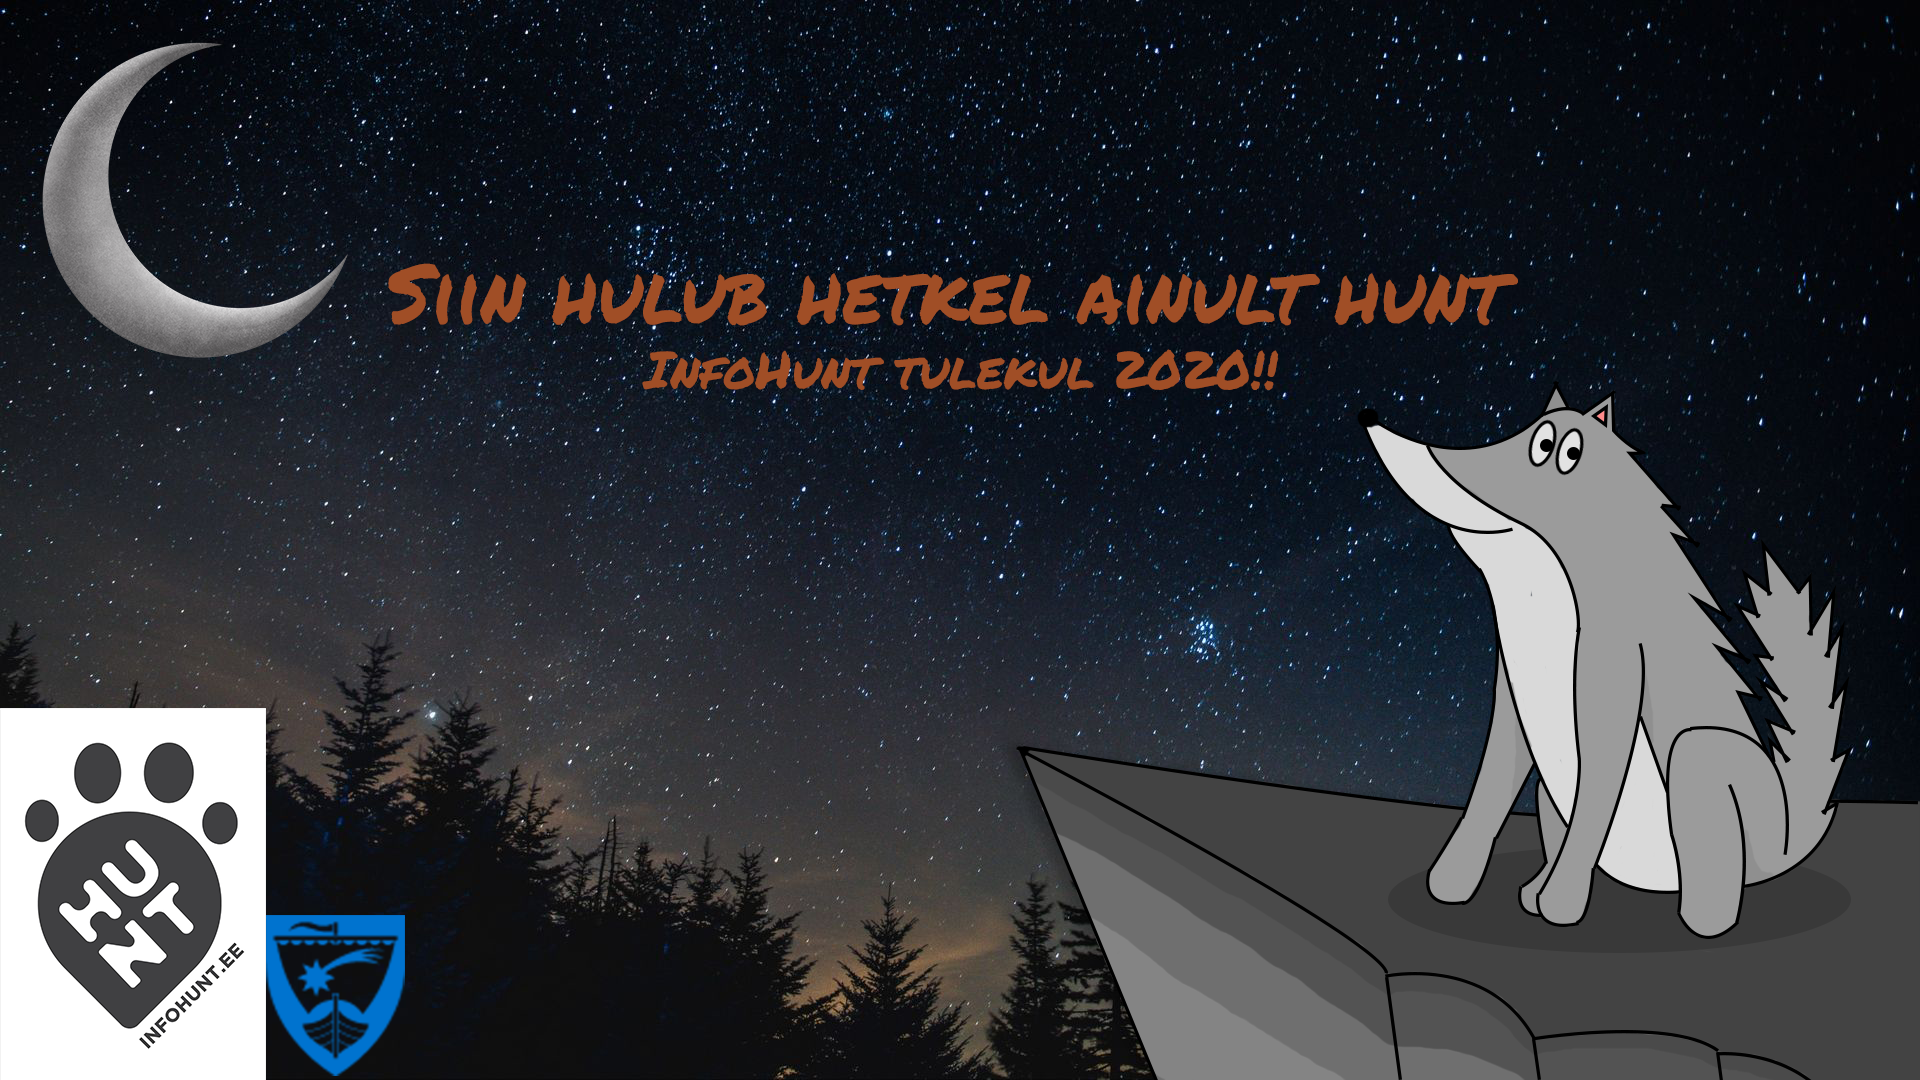
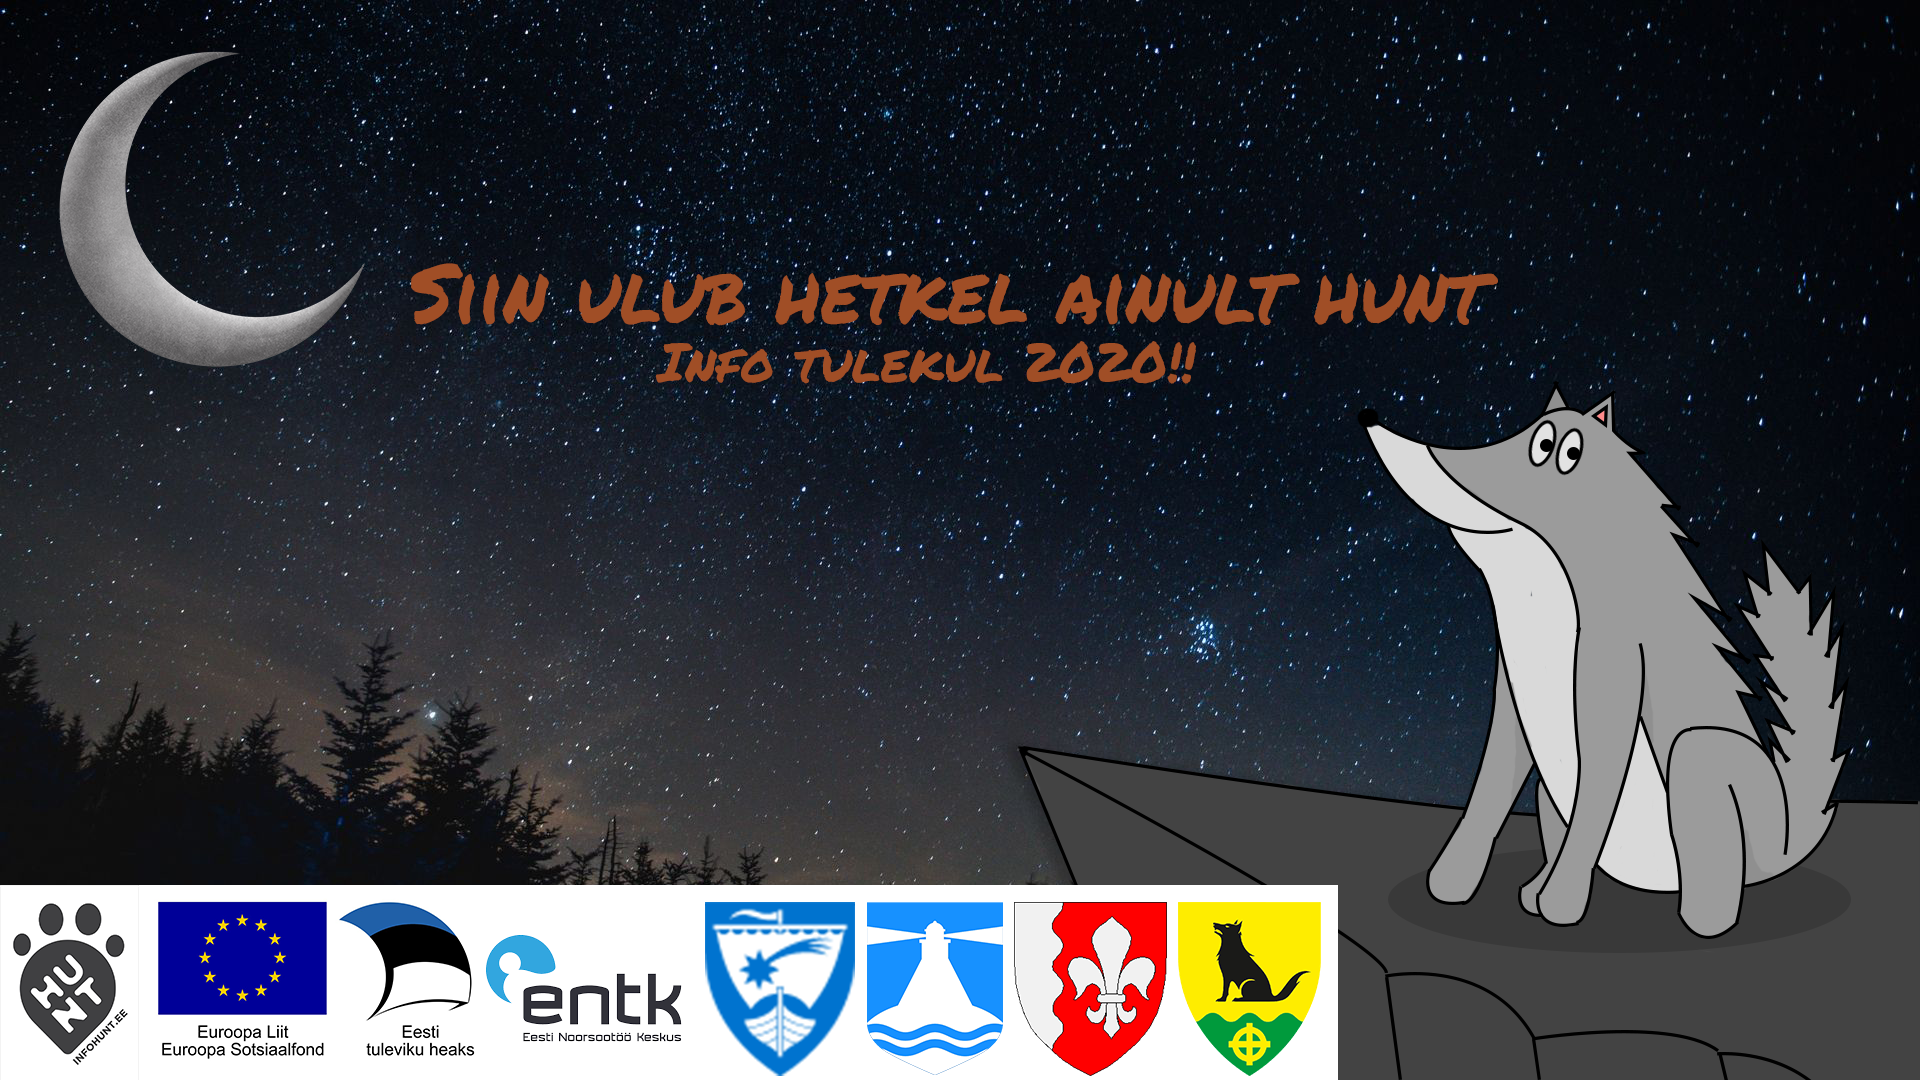
.

diff --git a/app.css b/app.css
@@ -1,8 +1,31 @@
+
+* {
+	padding: 0;
+	margin: 0;
+	font-family: Helvetica;
+	box-sizing: border-box;
+
+}
+header {
+	background-image: url(taust.png);
+	background-repeat: no-repeat;
+	background-size: cover;
+	width: 100%;
+	height: 100vh;
+	background-position: center center;
+	position: relative;
+}
+
+
+
+/*
+html, body {height:100%}
+
 body{
   background: url("taust.png");
   background-repeat: no-repeat;
   background-size: 100%;
-  position: relative; 
+  position: fixed; 
   top: 0; 
   left: 0; 
   min-width: 100%;
@@ -20,7 +43,7 @@ body{
     margin-top:0px;
     margin-left: 50px;
   }
-.hulguma {
+.ulguma {
     text-align: center;
     font-size: 16mm ;
     font-family: 'Lobster', cursive;

diff --git a/index.html b/index.html
@@ -9,6 +9,9 @@
     <link href="https://fonts.googleapis.com/css?family=Lobster&display=swap" rel="stylesheet">
 </head>
 <body>
+    <header>
+        
+    </header>
     <!-- 
     <div class="kuu"><img src="cresent-moon-png-105-images-in-collection-page-1-crecent-moon-png-1500_1500.png" width="200px"></div>
     <div class="hulguma"><p>Siin hulub hetkel ainult hunt</p></div>
